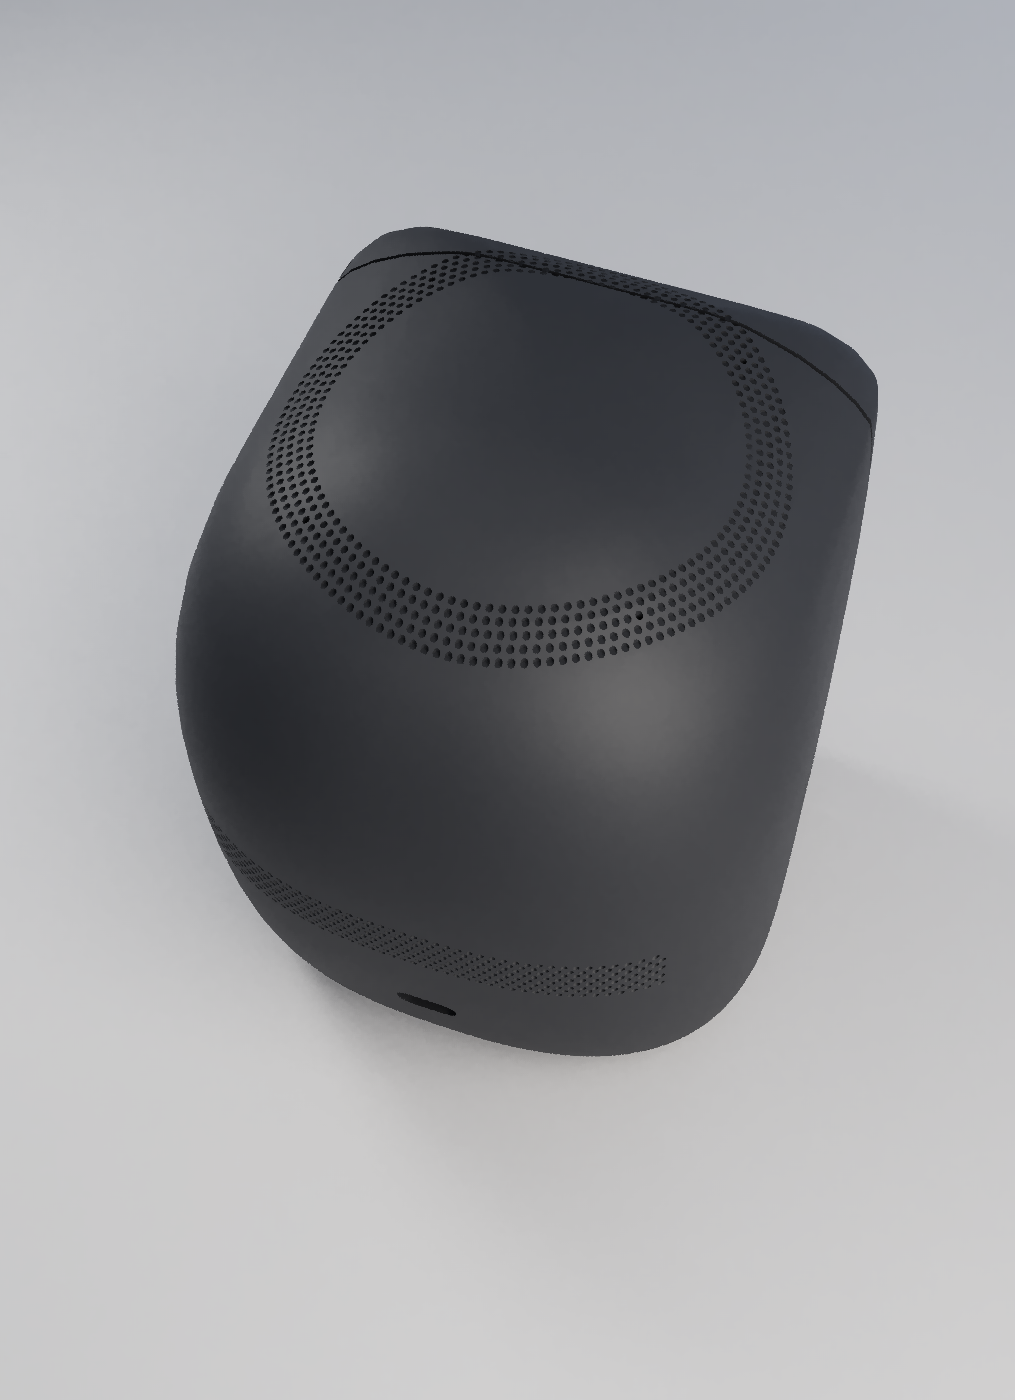
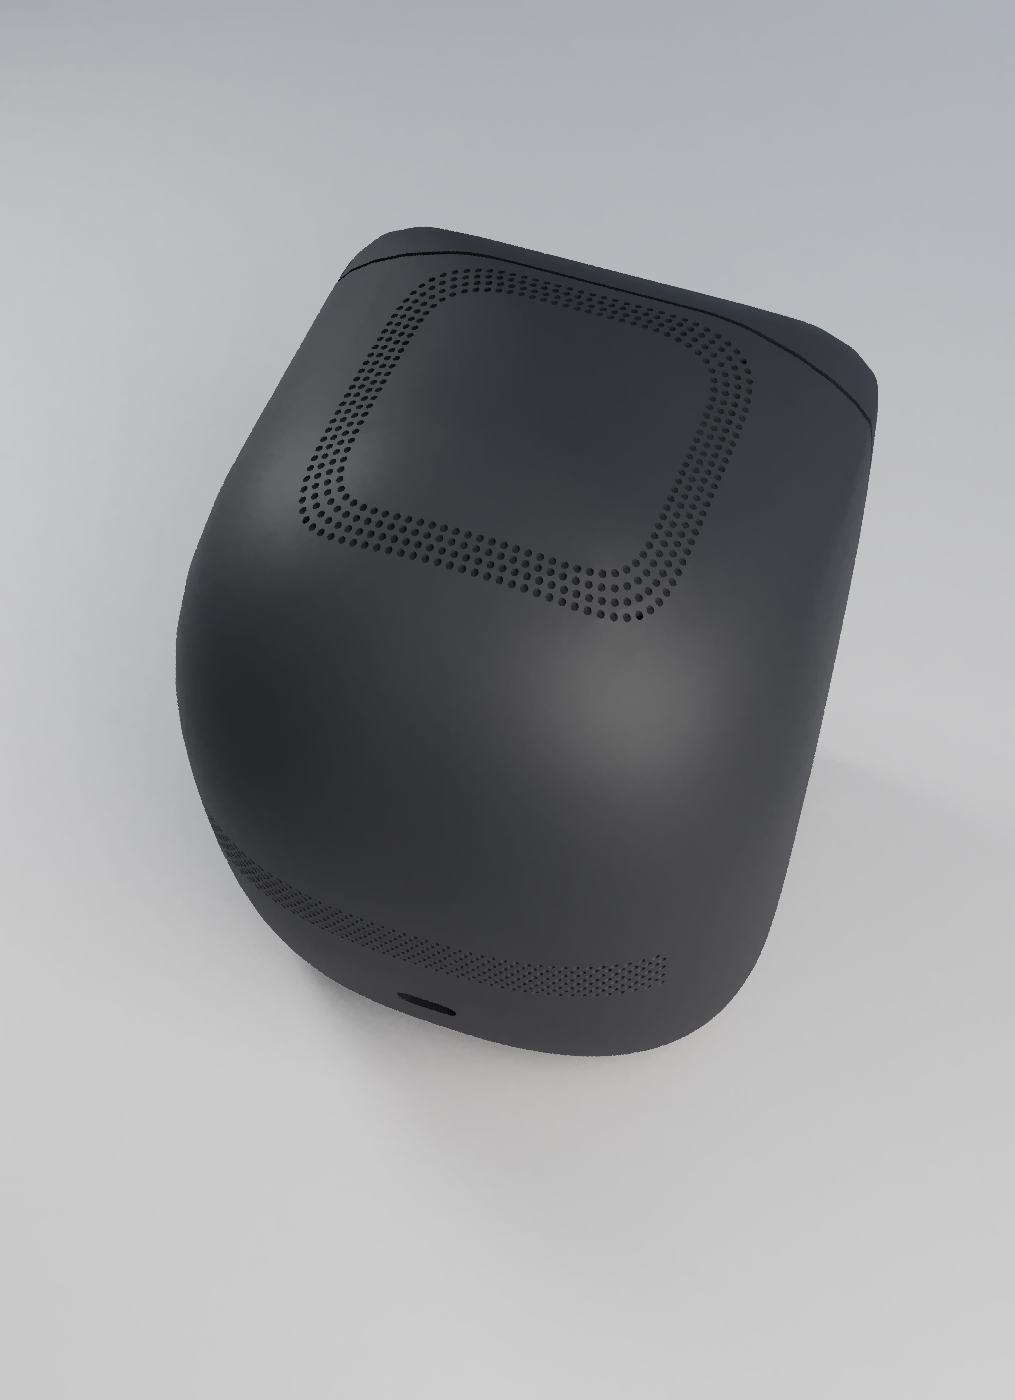
cortex: crown grille as a rounded square, inside the crown
The ring ran over the faceplate's top edge. Now a rounded square (superellipse n 6, the
screen's shape) whose outer row runs through the four mics, corners on them, rows stepping
inward: its front edge is a straight line at x 35, 5 behind the split, and the whole grille
sits on the crown's top. Same on the full head.

Changed region(s): [[0.2443, 0.1843, 0.733, 0.4914], [0.7025, 0.2457, 0.733, 0.3071], [0.6414, 0.215, 0.7025, 0.2457]]

diff --git a/quad00/cortex/node_print.py b/quad00/cortex/node_print.py
@@ -208,24 +208,45 @@ def surface_z(x, y, lo=100.0, hi=200.0, sec=None):
     return lo
 
 
-def halo(cx, r_mic, mics, rows=5, pitch=2.2):
-    """The crown grille: a ring of dots (Ø1.4 on a 2.2 hex, as the chin and ears) through the mic radius, its middle
-    row landing a dot on each mic so the four ports are four of its dots. Returns (blind dots, ports) as (x, y)."""
-    n = 4 * round(2 * math.pi * r_mic / pitch / 4)
+def halo(cx, half, mics, rows=4, pitch=2.2, n=6.0):
+    """The crown grille: a rounded square of dots (Ø1.4 on a 2.2 hex, as the chin and ears) -- the screen's shape,
+    on top of the head -- whose outer row runs through the four mics (its corners land on them), with rows stepping
+    inward from there so its front edge stays a straight line behind the face module. Returns (blind dots, ports)."""
+    a0 = half * 2 ** (1 / n)                     # the superellipse |x|^n + |y|^n = a^n through (half, half)
+
+    def curve(a, m=2000):
+        pts = []
+        for i in range(m):
+            t = 2 * math.pi * i / m + math.pi / 4
+            c, s = math.cos(t), math.sin(t)
+            pts.append((a * math.copysign(abs(c) ** (2 / n), c), a * math.copysign(abs(s) ** (2 / n), s)))
+        return pts
+
     dots = []
-    for k in range(-(rows // 2), rows // 2 + 1):
-        r = r_mic + k * pitch * 0.866
-        m = 4 * round(2 * math.pi * r / pitch / 4)
-        off = (0.5 if k % 2 else 0.0) * 2 * math.pi / m
-        dots += [(cx + r * math.cos(math.pi / 4 + off + 2 * math.pi * j / m), r * math.sin(math.pi / 4 + off + 2 * math.pi * j / m)) for j in range(m)]
-    ports = [min(dots, key=lambda d: math.hypot(d[0] - mx, d[1] - my)) for mx, my in mics]
-    return [d for d in dots if d not in ports], ports
+    for k in range(rows):
+        a = a0 - k * pitch * 0.866
+        p = curve(a)
+        seg = [math.dist(p[i], p[(i + 1) % len(p)]) for i in range(len(p))]
+        per = sum(seg)
+        m = 4 * round(per / pitch / 4)
+        off = (0.5 if k % 2 else 0.0) * per / m
+        acc, i = 0.0, 0
+        for j in range(m):
+            d = off + j * per / m
+            while acc + seg[i] < d:
+                acc += seg[i]
+                i = (i + 1) % len(p)
+            u = (d - acc) / seg[i]
+            (x0, y0), (x1, y1) = p[i], p[(i + 1) % len(p)]
+            dots.append((cx + x0 + u * (x1 - x0), y0 + u * (y1 - y0)))
+    ports = [min(dots, key=lambda q: math.dist(q, mp)) for mp in mics]
+    return [q for q in dots if q not in ports], ports
 
 
 # Rain: the dots are blind (0.6 deep) so only the four ports go through, and each port's channel is closed at its
 # foot by a hydrophobic acoustic membrane (ePTFE vent, e.g. a 6 mm adhesive disc) over the mic inlet: sound passes,
 # water stops there, on a 0.6 mm lip above the board so nothing wicks onto it.
-CROWN_DOTS, CROWN_PORTS = halo(XVF_X, 30.5 * math.sqrt(2), XVF_MICS)
+CROWN_DOTS, CROWN_PORTS = halo(XVF_X, 30.5, XVF_MICS)
 DOCK_FEET = [(-16.0, 32.0), (-16.0, -32.0), (24.0, 24.0), (24.0, -24.0)]   # front pair inside the strap slots
 
 # USB-C on the back: power in AND data, on the PD sink + 3S charger board (40 W x 30 H), screwed flat to a pad inside

diff --git a/quad00/cortex/node_full.py b/quad00/cortex/node_full.py
@@ -119,16 +119,31 @@ def main():
         ports.append('[translate %.2f %.2f %.2f [cylinder 0.8 %.2f]]' % (mx, my, XZ + 1.2, zt - XZ - 1.2 + 0.4))
         bosses.append('[translate %.2f %.2f %.2f [cylinder 3.0 %.2f]]' % (hx, hy, XZ + 1.2, zh - XZ - 1.2 - 1.0))
     out += '[let full-mic-ports [union %s [union %s [union %s %s]]]]\n' % tuple(ports)
-    # the crown grille: a halo of blind dots through the mic radius (as the mini's), the four ports among them
+    # the crown grille: a rounded square of blind dots (the screen's shape, as on the mini) whose outer row runs
+    # through the four mics, its corners on them, rows stepping inward; the four ports are four of its dots
     import math
-    r_mic, rows, pitch, dots = 30.5 * math.sqrt(2), 5, 2.2, []
-    for k in range(-(rows // 2), rows // 2 + 1):
-        r = r_mic + k * pitch * 0.866
-        m = 4 * round(2 * math.pi * r / pitch / 4)
-        off = (0.5 if k % 2 else 0.0) * 2 * math.pi / m
-        for j in range(m):
-            a = math.pi / 4 + off + 2 * math.pi * j / m
-            x, y = XC + r * math.cos(a), r * math.sin(a)
+    n_se, half, rows, pitch, dots = 6.0, 30.5, 4, 2.2, []
+    a0 = half * 2 ** (1 / n_se)
+    for k in range(rows):
+        a = a0 - k * pitch * 0.866
+        p = []
+        for i in range(2000):
+            t = 2 * math.pi * i / 2000 + math.pi / 4
+            c, sn = math.cos(t), math.sin(t)
+            p.append((a * math.copysign(abs(c) ** (2 / n_se), c), a * math.copysign(abs(sn) ** (2 / n_se), sn)))
+        seg = [math.dist(p[i], p[(i + 1) % len(p)]) for i in range(len(p))]
+        per = sum(seg)
+        m = 4 * round(per / pitch / 4)
+        off = (0.5 if k % 2 else 0.0) * per / m
+        acc, i = 0.0, 0
+        for jj in range(m):
+            d = off + jj * per / m
+            while acc + seg[i] < d:
+                acc += seg[i]
+                i = (i + 1) % len(p)
+            u = (d - acc) / seg[i]
+            (x0, y0), (x1, y1) = p[i], p[(i + 1) % len(p)]
+            x, y = XC + x0 + u * (x1 - x0), y0 + u * (y1 - y0)
             lo, hi = 180.0, 240.0
             for _ in range(28):
                 mid = (lo + hi) / 2
